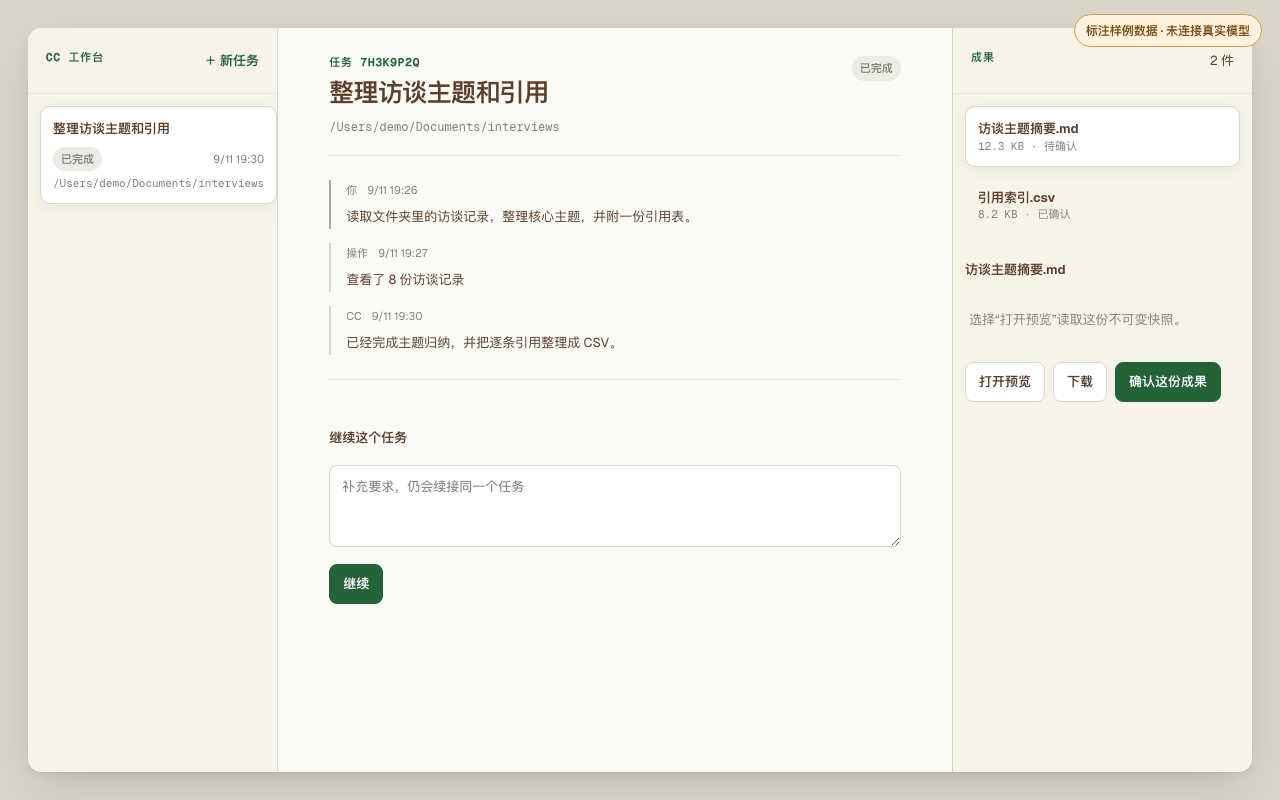
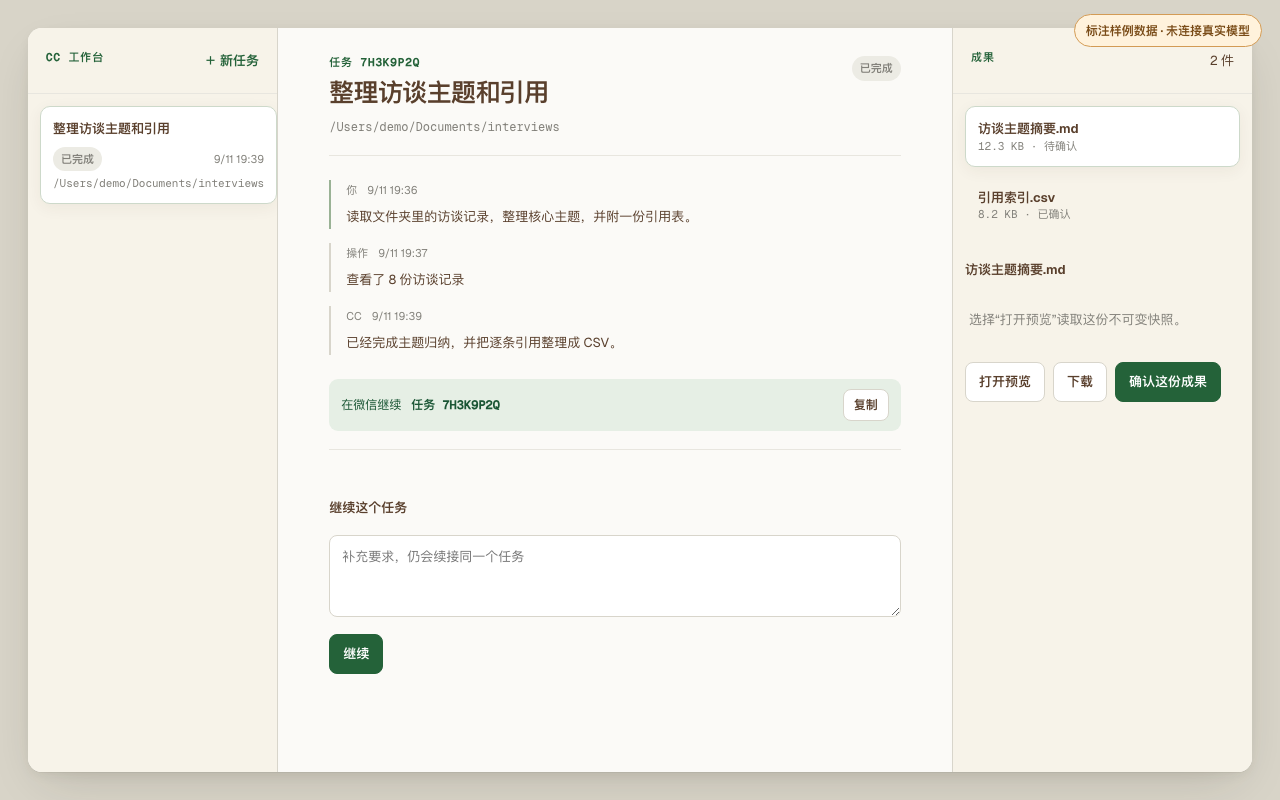
fix(desktop): preserve workbench page state

diff --git a/apps/desktop/src/modules/workbench.js b/apps/desktop/src/modules/workbench.js
@@ -3,8 +3,31 @@
 /** @typedef {{id:string,title:string,path:string,providerId:string,status:string,createdAt:number,updatedAt:number,error:string|null}} Task */
 /** @typedef {{id:string,taskId:string,kind:'user'|'text'|'tool_call'|'system'|'error',text:string,createdAt:number}} WorkbenchEvent */
 /** @typedef {{id:string,taskId:string,name:string,mime:string,size:number,sha256:string,createdAt:number,approvedAt:number|null}} Artifact */
+/** @typedef {{id:string,displayName:string}} Provider */
+/** @typedef {{task:Task,events:WorkbenchEvent[],artifacts:Artifact[]}} Detail */
+/** @typedef {{tasks:Task[],providers:Provider[],defaultProvider:string,canWechat:boolean}} ListResult */
+/** @typedef {{artifactId:string,html:string}|null} Preview */
+/** @typedef {{tasks:Task[],providers:Provider[],defaultProvider:string,canWechat:boolean,selectedId:string|null,detail:Detail|null,selectedArtifactId:string|null,error:string,preview:Preview}} WorkbenchState */
+/** @typedef {{path:string,text:string,title:string,providerId:string,followup:string}} Draft */
+/** @typedef {{invokeWorkbenchApi:(method:'GET'|'POST',path:string,body?:Record<string,unknown>)=>Promise<unknown>,invoke?:(command:string,args:Record<string,unknown>)=>Promise<unknown>,pollMs?:number}} WorkbenchDeps */
 
+/** @type {{timer:ReturnType<typeof setInterval>,cleanup:()=>void}|null} */
 let active = null
+
+const emptyDraft = () => ({ path: '', text: '', title: '', providerId: '', followup: '' })
+
+export function createWorkbenchDraftStore() {
+  /** @type {Map<string,Draft>} */
+  const values = new Map()
+  return {
+    /** @param {string} key @param {Draft} value */
+    set(key, value) { values.set(key, { ...value }) },
+    /** @param {string} key */
+    get(key) { return { ...(values.get(key) ?? emptyDraft()) } },
+  }
+}
+
+const pageDrafts = createWorkbenchDraftStore()
 
 /** @param {unknown} value */
 export function escapeWorkbenchHtml(value) {
@@ -34,12 +57,12 @@ export function chooseArtifactId(artifacts, current) {
   return [...artifacts].sort((a, b) => b.createdAt - a.createdAt)[0]?.id ?? null
 }
 
-/** @param {any} state */
+/** @param {WorkbenchState} state */
 export function renderWorkbench(state) {
   const tasks = state.tasks ?? []
   const detail = state.detail
-  const selectedArtifact = detail?.artifacts?.find((/** @type {Artifact} */ a) => a.id === state.selectedArtifactId)
-  const taskList = tasks.length ? tasks.map((/** @type {Task} */ task) => `
+  const selectedArtifact = detail?.artifacts?.find(a => a.id === state.selectedArtifactId)
+  const taskList = tasks.length ? tasks.map(task => `
     <button type="button" class="wb-task ${task.id === state.selectedId ? 'is-selected' : ''}" data-task-id="${escapeWorkbenchHtml(task.id)}">
       <span class="wb-task-title">${escapeWorkbenchHtml(task.title || '未命名任务')}</span>
       <span class="wb-task-meta"><span class="wb-status" data-status="${escapeWorkbenchHtml(task.status)}">${escapeWorkbenchHtml(statusLabel(task.status))}</span><time>${escapeWorkbenchHtml(time(task.updatedAt))}</time></span>
@@ -47,48 +70,56 @@ export function renderWorkbench(state) {
     </button>`).join('') : '<p class="wb-empty-copy">还没有任务。选一个文件夹，把要做的事交给 CC。</p>'
   const center = detail ? `
     <header class="wb-task-head"><div><p class="wb-kicker">任务 ${escapeWorkbenchHtml(detail.task.id)}</p><h2>${escapeWorkbenchHtml(detail.task.title || '未命名任务')}</h2><p class="wb-path">${escapeWorkbenchHtml(detail.task.path)}</p></div><span class="wb-status" data-status="${escapeWorkbenchHtml(detail.task.status)}">${escapeWorkbenchHtml(statusLabel(detail.task.status))}</span></header>
-    <div class="wb-events" aria-live="polite">${detail.events.length ? detail.events.map((event) => `<article class="wb-event" data-kind="${escapeWorkbenchHtml(event.kind)}"><div class="wb-event-meta"><span>${escapeWorkbenchHtml(event.kind === 'user' ? '你' : event.kind === 'tool_call' ? '操作' : event.kind === 'error' ? '错误' : 'CC')}</span><time>${escapeWorkbenchHtml(time(event.createdAt))}</time></div><p>${escapeWorkbenchHtml(event.text)}</p></article>`).join('') : '<p class="wb-empty-copy">任务已创建，等待第一条进展。</p>'}</div>
+    <div class="wb-events" aria-live="polite">${detail.events.length ? detail.events.map(event => `<article class="wb-event" data-kind="${escapeWorkbenchHtml(event.kind)}"><div class="wb-event-meta"><span>${escapeWorkbenchHtml(event.kind === 'user' ? '你' : event.kind === 'tool_call' ? '操作' : event.kind === 'error' ? '错误' : 'CC')}</span><time>${escapeWorkbenchHtml(time(event.createdAt))}</time></div><p>${escapeWorkbenchHtml(event.text)}</p></article>`).join('') : '<p class="wb-empty-copy">任务已创建，等待第一条进展。</p>'}</div>
     ${detail.task.error ? `<div class="wb-error" role="alert">${escapeWorkbenchHtml(detail.task.error)}</div>` : ''}
+    ${state.canWechat ? `<div class="wb-wechat"><span>在微信继续</span><code>任务 ${escapeWorkbenchHtml(detail.task.id)}</code><button type="button" class="wb-btn" data-action="copy-wechat-command">复制</button></div>` : ''}
     <div class="wb-controls">${renderTaskControls(detail.task.status)}</div>` : `
     <div class="wb-welcome"><p class="wb-kicker">新的文件夹任务</p><h1>把一件事交给 CC</h1><p>原始文件默认保留不动；待交付文件会集中放进任务成果目录。</p>
       <form id="wb-create-form" class="wb-create-form">
         <label>文件夹<div class="wb-folder-row"><input id="wb-path" name="path" required placeholder="选择一个本机文件夹"><button type="button" class="wb-btn" data-action="choose-folder">选择…</button></div></label>
         <label>要做什么<textarea id="wb-create-text" name="text" rows="7" required placeholder="例如：整理这些访谈记录，做一份主题摘要和引用表"></textarea></label>
         <label>执行服务<select id="wb-provider" name="providerId">${(state.providers ?? []).map((p) => `<option value="${escapeWorkbenchHtml(p.id)}" ${p.id === state.defaultProvider ? 'selected' : ''}>${escapeWorkbenchHtml(p.displayName)}</option>`).join('')}</select></label>
-        <label>任务名称 <span class="wb-optional">可选</span><input id="wb-title" name="title" placeholder="CC 会在留空时自动概括"></label>
+        <label>任务名称 <span class="wb-optional">可选</span><input id="wb-title" name="title" placeholder="留空时使用任务要求的前 40 个字"></label>
         <button class="wb-btn wb-btn-primary" type="submit">开始任务</button>
       </form></div>`
-  const artifacts = detail?.artifacts?.length ? detail.artifacts.map((artifact) => `<button type="button" class="wb-artifact ${artifact.id === state.selectedArtifactId ? 'is-selected' : ''}" data-artifact-id="${escapeWorkbenchHtml(artifact.id)}"><span>${escapeWorkbenchHtml(artifact.name)}</span><small>${escapeWorkbenchHtml((artifact.size / 1024).toFixed(1))} KB · ${artifact.approvedAt ? '已确认' : '待确认'}</small></button>`).join('') : '<p class="wb-empty-copy">成果文件会在这里出现。失败或停止后，已经生成的文件仍可查看。</p>'
-  return `<div class="workbench-shell"><aside class="wb-sidebar"><header><p class="wb-kicker">CC 工作台</p><button type="button" class="wb-new" data-action="new-task">＋ 新任务</button></header><div class="wb-task-list">${taskList}</div></aside><main class="wb-main">${state.error ? `<div class="wb-error" role="alert">${escapeWorkbenchHtml(state.error)}</div>` : ''}${center}</main><aside class="wb-artifacts"><header><p class="wb-kicker">成果</p><span>${detail?.artifacts?.length ?? 0} 件</span></header><div class="wb-artifact-list">${artifacts}</div><div id="wb-preview" class="wb-preview">${selectedArtifact ? `<p class="wb-preview-name">${escapeWorkbenchHtml(selectedArtifact.name)}</p><p class="wb-preview-hint">选择“打开预览”读取这份不可变快照。</p><button type="button" class="wb-btn" data-action="preview-artifact">打开预览</button><button type="button" class="wb-btn" data-action="download-artifact">下载</button>${selectedArtifact.approvedAt ? '<p class="wb-approved">已确认此版本</p>' : '<button type="button" class="wb-btn wb-btn-primary" data-action="approve-artifact">确认这份成果</button>'}` : ''}</div></aside></div>`
+  const artifacts = detail?.artifacts?.length ? detail.artifacts.map(artifact => `<button type="button" class="wb-artifact ${artifact.id === state.selectedArtifactId ? 'is-selected' : ''}" data-artifact-id="${escapeWorkbenchHtml(artifact.id)}"><span>${escapeWorkbenchHtml(artifact.name)}</span><small>${escapeWorkbenchHtml((artifact.size / 1024).toFixed(1))} KB · ${artifact.approvedAt ? '已确认' : '待确认'}</small></button>`).join('') : '<p class="wb-empty-copy">成果文件会在这里出现。失败或停止后，已经生成的文件仍可查看。</p>'
+  const previewContent = selectedArtifact && state.preview?.artifactId === selectedArtifact.id ? state.preview.html : '<p class="wb-preview-hint">选择“打开预览”读取这份不可变快照。</p>'
+  return `<div class="workbench-shell"><aside class="wb-sidebar"><header><p class="wb-kicker">CC 工作台</p><button type="button" class="wb-new" data-action="new-task">＋ 新任务</button></header><div class="wb-task-list">${taskList}</div></aside><main class="wb-main">${state.error ? `<div class="wb-error" role="alert">${escapeWorkbenchHtml(state.error)}</div>` : ''}${center}</main><aside class="wb-artifacts"><header><p class="wb-kicker">成果</p><span>${detail?.artifacts?.length ?? 0} 件</span></header><div class="wb-artifact-list">${artifacts}</div><div id="wb-preview" class="wb-preview">${selectedArtifact ? `<p class="wb-preview-name">${escapeWorkbenchHtml(selectedArtifact.name)}</p><div class="wb-preview-content">${previewContent}</div><button type="button" class="wb-btn" data-action="preview-artifact">打开预览</button><button type="button" class="wb-btn" data-action="download-artifact">下载</button>${selectedArtifact.approvedAt ? '<p class="wb-approved">已确认此版本</p>' : '<button type="button" class="wb-btn wb-btn-primary" data-action="approve-artifact">确认这份成果</button>'}` : ''}</div></aside></div>`
 }
 
-/** @param {{invokeWorkbenchApi:Function,render:Function}} deps */
+/** @param {{invokeWorkbenchApi:WorkbenchDeps['invokeWorkbenchApi'],render:(state:WorkbenchState)=>void}} deps */
 export function createWorkbenchController(deps) {
-  const state = { tasks: [], providers: [], defaultProvider: '', canWechat: false, selectedId: null, detail: null, selectedArtifactId: null, error: '' }
+  /** @type {WorkbenchState} */
+  const state = { tasks: [], providers: [], defaultProvider: '', canWechat: false, selectedId: null, detail: null, selectedArtifactId: null, error: '', preview: null }
   let detailRequest = 0
   let composingNewTask = false
+  let alive = true
   const paint = () => deps.render(state)
   return {
     state,
     async refresh() {
-      const result = await deps.invokeWorkbenchApi('GET', '/v1/workbench')
+      const result = /** @type {ListResult} */ (await deps.invokeWorkbenchApi('GET', '/v1/workbench'))
+      if (!alive) return
       Object.assign(state, result)
       if (state.selectedId) await this.selectTask(state.selectedId)
       else if (!composingNewTask && state.tasks[0]?.id) await this.selectTask(state.tasks[0].id)
       else paint()
     },
+    /** @param {string} id */
     async selectTask(id) {
       state.selectedId = id
       composingNewTask = false
       const request = ++detailRequest
-      const result = await deps.invokeWorkbenchApi('GET', `/v1/workbench/task?id=${encodeURIComponent(id)}`)
-      if (request !== detailRequest || state.selectedId !== id) return
+      const result = /** @type {Detail} */ (await deps.invokeWorkbenchApi('GET', `/v1/workbench/task?id=${encodeURIComponent(id)}`))
+      if (!alive || request !== detailRequest || state.selectedId !== id) return
       state.detail = result
       state.selectedArtifactId = chooseArtifactId(result.artifacts ?? [], state.selectedArtifactId)
+      if (state.preview && state.preview.artifactId !== state.selectedArtifactId) state.preview = null
       state.error = ''
       paint()
     },
     newTask() { detailRequest++; composingNewTask = true; state.selectedId = null; state.detail = null; state.selectedArtifactId = null; paint() },
+    destroy() { alive = false; detailRequest++ },
     paint,
   }
 }
@@ -100,53 +131,99 @@ function decodeBase64(base64) {
   return out
 }
 
-/** @param {{invokeWorkbenchApi:Function,invoke?:Function,pollMs?:number}} deps */
+/** @param {string} id */
+function input(id) { return /** @type {HTMLInputElement|HTMLTextAreaElement|HTMLSelectElement|null} */ (document.getElementById(id)) }
+
+/** @param {WorkbenchDeps} deps */
 export function initWorkbenchPage(deps) {
   stopWorkbenchPolling()
   const root = document.getElementById('workbench-root')
   if (!root) return
   let busy = false
+  let alive = true
+  /** @type {string|null} */
   let objectUrl = null
-  const captureDrafts = () => ({ path: document.getElementById('wb-path')?.value, text: document.getElementById('wb-create-text')?.value, title: document.getElementById('wb-title')?.value, followup: document.getElementById('wb-followup-text')?.value })
-  const restoreDrafts = (drafts) => { for (const [id, value] of [['wb-path', drafts.path], ['wb-create-text', drafts.text], ['wb-title', drafts.title], ['wb-followup-text', drafts.followup]]) { const el = document.getElementById(id); if (el && value !== undefined) el.value = value } }
-  const controller = createWorkbenchController({ invokeWorkbenchApi: deps.invokeWorkbenchApi, render: state => { const drafts = captureDrafts(); root.innerHTML = renderWorkbench(state); restoreDrafts(drafts) } })
-  const fail = (error) => { controller.state.error = error instanceof Error ? error.message : String(error); controller.paint() }
-  const mutate = async (method, path, body) => { if (busy) return; busy = true; try { const result = await deps.invokeWorkbenchApi(method, path, body); const id = result?.task?.id ?? controller.state.selectedId; await controller.refresh(); if (id) await controller.selectTask(id) } catch (e) { fail(e) } finally { busy = false } }
-  root.addEventListener('click', async event => {
+  let renderedScope = 'new'
+  const scopeFor = (/** @type {WorkbenchState} */ state) => state.selectedId ? `task:${state.selectedId}` : 'new'
+  const captureDraft = () => pageDrafts.set(renderedScope, { path: input('wb-path')?.value ?? '', text: input('wb-create-text')?.value ?? '', title: input('wb-title')?.value ?? '', providerId: input('wb-provider')?.value ?? '', followup: input('wb-followup-text')?.value ?? '' })
+  const restoreDraft = (/** @type {string} */ scope) => {
+    const draft = pageDrafts.get(scope)
+    for (const [id, value] of /** @type {Array<[string,string]>} */ ([['wb-path', draft.path], ['wb-create-text', draft.text], ['wb-title', draft.title], ['wb-provider', draft.providerId], ['wb-followup-text', draft.followup]])) {
+      const field = input(id); if (field && value) field.value = value
+    }
+  }
+  const controller = createWorkbenchController({ invokeWorkbenchApi: deps.invokeWorkbenchApi, render: state => {
+    if (!alive) return
+    captureDraft()
+    const activeField = document.activeElement instanceof Element && 'value' in document.activeElement
+      ? /** @type {HTMLInputElement|HTMLTextAreaElement|HTMLSelectElement} */ (document.activeElement)
+      : null
+    const focused = activeField
+      ? { id: activeField.id, start: 'selectionStart' in activeField ? activeField.selectionStart : null, end: 'selectionEnd' in activeField ? activeField.selectionEnd : null }
+      : null
+    root.innerHTML = renderWorkbench(state)
+    renderedScope = scopeFor(state)
+    restoreDraft(renderedScope)
+    const nextFocus = focused ? input(focused.id) : null
+    if (nextFocus) { nextFocus.focus(); if (focused && focused.start !== null && focused.end !== null && 'setSelectionRange' in nextFocus) nextFocus.setSelectionRange(focused.start, focused.end) }
+  } })
+  /** @param {unknown} error */
+  const fail = error => { if (!alive) return; controller.state.error = error instanceof Error ? error.message : String(error); controller.paint() }
+  /** @param {'GET'|'POST'} method @param {string} path @param {Record<string,unknown>} body */
+  const mutate = async (method, path, body) => {
+    if (busy || !alive) return
+    busy = true
+    try {
+      const result = /** @type {{task?:Task}} */ (await deps.invokeWorkbenchApi(method, path, body))
+      if (!alive) return
+      const id = result.task?.id ?? controller.state.selectedId
+      await controller.refresh()
+      if (alive && id) await controller.selectTask(id)
+    } catch (e) { fail(e) } finally { busy = false }
+  }
+  /** @param {Event} event */
+  const onClick = async event => {
     const target = event.target instanceof Element ? event.target.closest('button') : null
     if (!target) return
-    if (target.dataset.taskId) return controller.selectTask(target.dataset.taskId).catch(fail)
-    if (target.dataset.artifactId) { controller.state.selectedArtifactId = target.dataset.artifactId; return controller.paint() }
+    if (target.dataset.taskId) { captureDraft(); return controller.selectTask(target.dataset.taskId).catch(fail) }
+    if (target.dataset.artifactId) { controller.state.selectedArtifactId = target.dataset.artifactId; controller.state.preview = null; return controller.paint() }
     const action = target.dataset.action
-    if (action === 'new-task') return controller.newTask()
-    if (action === 'choose-folder') { try { const path = await deps.invoke?.('choose_workbench_folder', {}); const input = document.getElementById('wb-path'); if (path && input) input.value = path } catch (e) { fail(e) } return }
+    if (action === 'new-task') { captureDraft(); return controller.newTask() }
+    if (action === 'choose-folder') { try { const path = await deps.invoke?.('choose_workbench_folder', {}); const field = input('wb-path'); if (typeof path === 'string' && field) field.value = path } catch (e) { fail(e) } return }
     if (action === 'cancel') return mutate('POST', '/v1/workbench/cancel', { id: controller.state.selectedId })
+    if (action === 'copy-wechat-command' && controller.state.selectedId) { try { await navigator.clipboard.writeText(`任务 ${controller.state.selectedId}`) } catch { fail(new Error('复制不了，请手动选中任务编号。')) } return }
     const artifact = controller.state.detail?.artifacts?.find(a => a.id === controller.state.selectedArtifactId)
     if (!artifact) return
     if (action === 'approve-artifact') return mutate('POST', '/v1/workbench/approve', { id: controller.state.selectedId, artifactId: artifact.id, sha256: artifact.sha256 })
     if (action === 'preview-artifact' || action === 'download-artifact') {
       try {
-        const data = await deps.invokeWorkbenchApi('GET', `/v1/workbench/artifact?id=${encodeURIComponent(controller.state.selectedId)}&artifactId=${encodeURIComponent(artifact.id)}`)
+        const data = /** @type {{name:string,mime:string,contentBase64:string,size:number,sha256:string}} */ (await deps.invokeWorkbenchApi('GET', `/v1/workbench/artifact?id=${encodeURIComponent(controller.state.selectedId ?? '')}&artifactId=${encodeURIComponent(artifact.id)}`))
+        if (!alive) return
         if (objectUrl) URL.revokeObjectURL(objectUrl)
         objectUrl = URL.createObjectURL(new Blob([decodeBase64(data.contentBase64)], { type: data.mime }))
         if (action === 'download-artifact') { const a = document.createElement('a'); a.href = objectUrl; a.download = data.name; a.click(); return }
-        const preview = document.getElementById('wb-preview'); if (!preview) return
-        if (data.mime.startsWith('text/') || data.mime === 'application/json') preview.innerHTML = `<pre>${escapeWorkbenchHtml(new TextDecoder().decode(decodeBase64(data.contentBase64)))}</pre>`
-        else if (data.mime.startsWith('image/')) preview.innerHTML = `<img src="${objectUrl}" alt="${escapeWorkbenchHtml(data.name)}">`
-        else if (data.mime === 'application/pdf') preview.innerHTML = `<iframe src="${objectUrl}" title="${escapeWorkbenchHtml(data.name)}"></iframe>`
-        else preview.innerHTML = '<p class="wb-preview-hint">这种文件请下载后在本机应用中查看。</p>'
+        let html = '<p class="wb-preview-hint">这种文件请下载后在本机应用中查看。</p>'
+        if (data.mime.startsWith('text/') || data.mime === 'application/json') html = `<pre>${escapeWorkbenchHtml(new TextDecoder().decode(decodeBase64(data.contentBase64)))}</pre>`
+        else if (data.mime.startsWith('image/')) html = `<img src="${objectUrl}" alt="${escapeWorkbenchHtml(data.name)}">`
+        else if (data.mime === 'application/pdf') html = `<iframe src="${objectUrl}" title="${escapeWorkbenchHtml(data.name)}"></iframe>`
+        controller.state.preview = { artifactId: artifact.id, html }
+        controller.paint()
       } catch (e) { fail(e) }
     }
-  })
-  root.addEventListener('submit', event => {
+  }
+  /** @param {SubmitEvent} event */
+  const onSubmit = event => {
     event.preventDefault()
-    const form = event.target
+    const form = event.target instanceof Element && event.target.tagName === 'FORM' ? /** @type {HTMLFormElement} */ (event.target) : null
+    if (!form) return
     if (form?.id === 'wb-create-form') { const data = new FormData(form); mutate('POST', '/v1/workbench/create', { title: data.get('title') || undefined, path: data.get('path'), providerId: data.get('providerId'), text: data.get('text') }); return }
-    if (form?.dataset?.action === 'continue') { const text = document.getElementById('wb-followup-text')?.value; if (text?.trim()) mutate('POST', '/v1/workbench/continue', { id: controller.state.selectedId, text }) }
-  })
+    if (form.dataset.action === 'continue') { const text = input('wb-followup-text')?.value; if (text?.trim()) mutate('POST', '/v1/workbench/continue', { id: controller.state.selectedId, text }) }
+  }
+  root.addEventListener('click', onClick)
+  root.addEventListener('submit', onSubmit)
   controller.refresh().catch(fail)
   const timer = setInterval(() => { if (!root.closest('[hidden]')) controller.refresh().catch(fail) }, deps.pollMs ?? 3000)
-  active = { timer, cleanup: () => { if (objectUrl) URL.revokeObjectURL(objectUrl) } }
+  active = { timer, cleanup: () => { alive = false; controller.destroy(); root.removeEventListener('click', onClick); root.removeEventListener('submit', onSubmit); if (objectUrl) URL.revokeObjectURL(objectUrl) } }
   return controller
 }
 

diff --git a/apps/desktop/src/modules/workbench.test.ts b/apps/desktop/src/modules/workbench.test.ts
@@ -18,6 +18,7 @@ describe('workbench rendering', () => {
       selectedId: 'A1B2C3D4',
       detail: { task: { id: 'A1B2C3D4', title: '<task>', path: '/tmp/<work>', providerId: 'codex', status: 'running', createdAt: 1, updatedAt: 2, error: null }, events: [{ id: 'e1', taskId: 'A1B2C3D4', kind: 'text', text: '<script>bad()</script>', createdAt: 3 }], artifacts: [] },
       selectedArtifactId: null,
+      error: '', preview: null,
     })
     expect(html).toContain('&lt;img src=x onerror=alert(1)&gt;')
     expect(html).toContain('&lt;script&gt;bad()&lt;/script&gt;')
@@ -42,6 +43,34 @@ describe('workbench rendering', () => {
     expect(chooseArtifactId(artifacts, 'old')).toBe('old')
     expect(chooseArtifactId(artifacts, 'missing')).toBe('new')
   })
+
+  it('keeps an opened preview and its controls when poll data is rendered', async () => {
+    const { renderWorkbench } = await import('./workbench.js')
+    const artifact = { id: 'a1', taskId: 'TASK', name: 'report.md', mime: 'text/markdown', size: 2, sha256: 'hash', createdAt: 2, approvedAt: null }
+    const html = renderWorkbench({ tasks: [], providers: [], defaultProvider: 'codex', canWechat: false, selectedId: 'TASK', selectedArtifactId: 'a1', error: '', preview: { artifactId: 'a1', html: '<pre>safe preview</pre>' }, detail: { task: { id: 'TASK', title: 'Report', path: '/tmp', providerId: 'codex', status: 'completed', createdAt: 1, updatedAt: 2, error: null }, events: [], artifacts: [artifact] } })
+    expect(html).toContain('<pre>safe preview</pre>')
+    expect(html).toContain('data-action="download-artifact"')
+    expect(html).toContain('data-action="approve-artifact"')
+  })
+
+  it('shows the explicit WeChat continuation command only when available', async () => {
+    const { renderWorkbench } = await import('./workbench.js')
+    const base = { tasks: [], providers: [], defaultProvider: 'codex', selectedId: 'TASK1234', selectedArtifactId: null, error: '', preview: null, detail: { task: { id: 'TASK1234', title: 'Report', path: '/tmp', providerId: 'codex', status: 'completed', createdAt: 1, updatedAt: 2, error: null }, events: [], artifacts: [] } }
+    expect(renderWorkbench({ ...base, canWechat: true })).toContain('任务 TASK1234')
+    expect(renderWorkbench({ ...base, canWechat: false })).not.toContain('在微信继续')
+  })
+})
+
+describe('workbench drafts', () => {
+  it('retains provider choice and scopes followups to their task', async () => {
+    const { createWorkbenchDraftStore } = await import('./workbench.js')
+    const drafts = createWorkbenchDraftStore()
+    drafts.set('new', { path: '/work', text: 'draft', title: '', providerId: 'claude', followup: '' })
+    drafts.set('task:A', { path: '', text: '', title: '', providerId: '', followup: 'for A' })
+    expect(drafts.get('new').providerId).toBe('claude')
+    expect(drafts.get('task:B').followup).toBe('')
+    expect(drafts.get('task:A').followup).toBe('for A')
+  })
 })
 
 describe('workbench request ordering', () => {
@@ -53,7 +82,7 @@ describe('workbench request ordering', () => {
     const controller = createWorkbenchController({ invokeWorkbenchApi, render: vi.fn() })
     await controller.refresh()
     expect(controller.state.selectedId).toBe('RECENT')
-    expect(controller.state.detail.task.id).toBe('RECENT')
+    expect(controller.state.detail?.task.id).toBe('RECENT')
   })
 
   it('ignores a stale detail response after the user selects another task', async () => {
@@ -72,5 +101,41 @@ describe('workbench request ordering', () => {
     await pending
     expect(renders.at(-1).selectedId).toBe('SECOND')
     expect(renders.at(-1).detail.task.id).toBe('SECOND')
+  })
+})
+
+describe('workbench lifecycle', () => {
+  it('removes the previous activation handlers so one click dispatches once', async () => {
+    vi.useFakeTimers()
+    class FakeElement {
+      dataset: Record<string, string> = {}
+      innerHTML = ''
+      listeners = new Map<string, Set<(event: any) => void>>()
+      addEventListener(name: string, fn: (event: any) => void) { const set = this.listeners.get(name) ?? new Set(); set.add(fn); this.listeners.set(name, set) }
+      removeEventListener(name: string, fn: (event: any) => void) { this.listeners.get(name)?.delete(fn) }
+      closest() { return null }
+      querySelector() { return null }
+    }
+    const page = new FakeElement()
+    const button = new FakeElement(); button.dataset.action = 'cancel'; (button as any).closest = () => button
+    root.document = { getElementById: (id: string) => id === 'workbench-root' ? page : null, activeElement: null, createElement: () => new FakeElement() }
+    root.window = {}
+    vi.stubGlobal('Element', FakeElement)
+    const task = { id: 'TASK', title: 'Task', path: '/tmp', providerId: 'codex', status: 'running', createdAt: 1, updatedAt: 2, error: null }
+    const invokeWorkbenchApi = vi.fn(async (method: string, path: string) => {
+      if (method === 'GET' && path === '/v1/workbench') return { tasks: [task], providers: [], defaultProvider: 'codex', canWechat: false }
+      if (method === 'GET') return { task, events: [], artifacts: [] }
+      return { task }
+    })
+    const { initWorkbenchPage, stopWorkbenchPolling } = await import('./workbench.js')
+    initWorkbenchPage({ invokeWorkbenchApi, pollMs: 60_000 })
+    await vi.runAllTicks()
+    initWorkbenchPage({ invokeWorkbenchApi, pollMs: 60_000 })
+    await vi.runAllTicks()
+    expect(page.listeners.get('click')?.size).toBe(1)
+    page.listeners.get('click')?.forEach(fn => fn({ target: button }))
+    await vi.runAllTicks()
+    expect(invokeWorkbenchApi.mock.calls.filter(([method, path]) => method === 'POST' && path === '/v1/workbench/cancel')).toHaveLength(1)
+    stopWorkbenchPolling()
   })
 })

diff --git a/apps/desktop/src/styles/workbench.css b/apps/desktop/src/styles/workbench.css
@@ -29,6 +29,9 @@
 .wb-event-meta { display: flex; gap: 10px; color: var(--ink-3); font-size: 11px; }
 .wb-event p { margin: 7px 0 0; white-space: pre-wrap; line-height: 1.65; }
 .wb-controls { border-top: 1px solid var(--hair); padding-top: 20px; }
+.wb-wechat { display: flex; align-items: center; gap: 10px; margin: 0 0 18px; border-radius: 9px; padding: 10px 12px; background: var(--green-soft); color: var(--green-ink); font-size: 12px; }
+.wb-wechat code { font: 600 12px/1.4 var(--mono); user-select: all; }
+.wb-wechat .wb-btn { margin-left: auto; padding: 6px 10px; }
 .wb-create-form, .wb-followup { display: grid; gap: 17px; max-width: 720px; margin-top: 28px; }
 .wb-create-form label, .wb-followup label { display: grid; gap: 8px; color: var(--ink-2); font-size: 13px; font-weight: 650; }
 .wb-create-form input, .wb-create-form textarea, .wb-create-form select, .wb-followup textarea { width: 100%; border: 1px solid var(--hair-2); border-radius: 8px; padding: 11px 12px; background: #fff; color: var(--ink); font: inherit; resize: vertical; }
